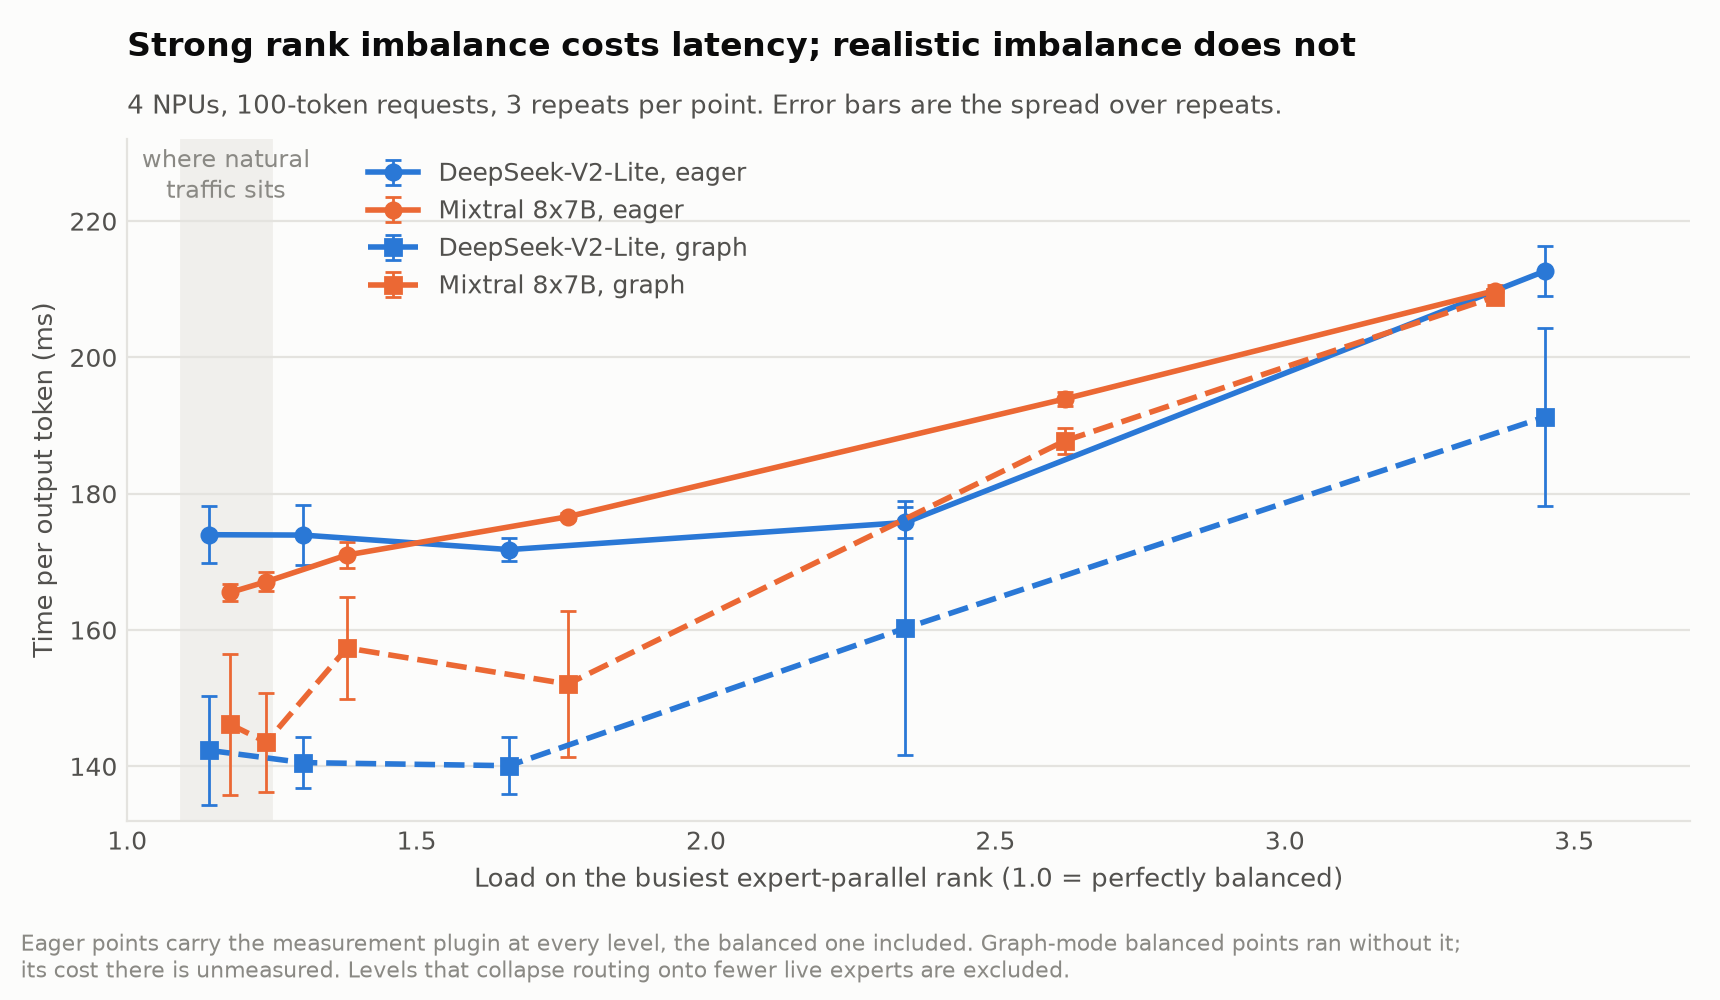
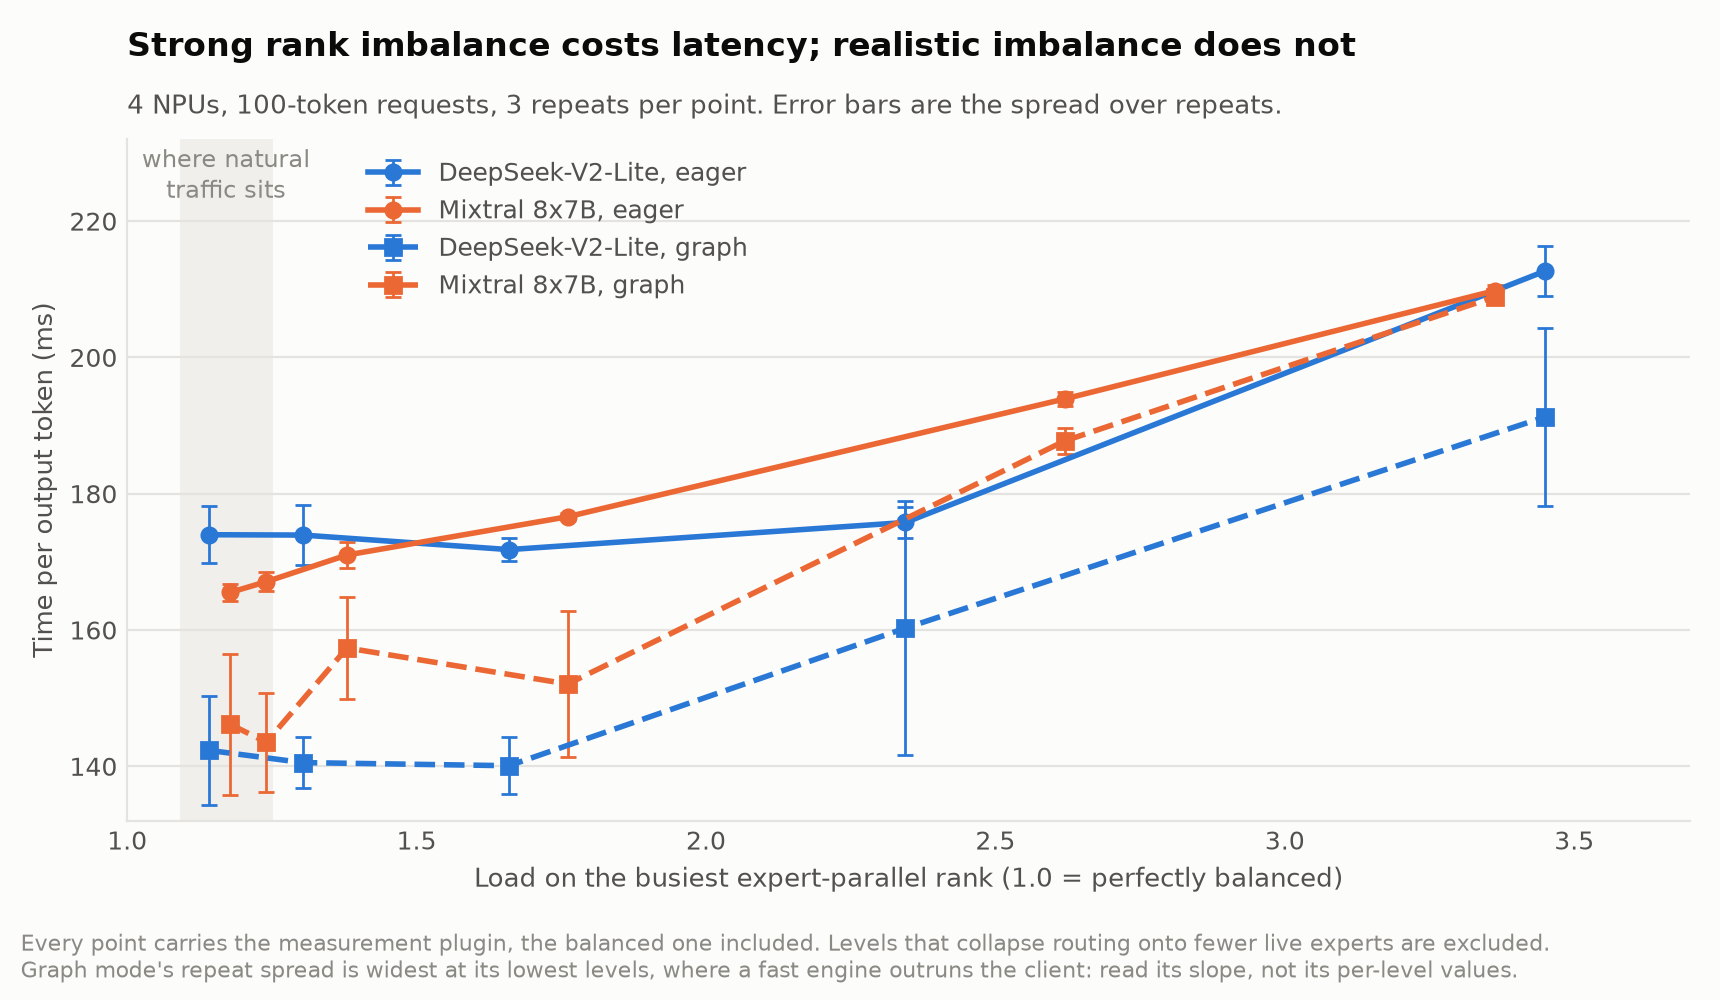
Correct the dose-response footnote and require completed captures
The graph curves are the controlled runs now, so every point carries the
plugin; the footnote still said the graph balanced points ran without it.
It also flags where graph mode's spread is widest, so the figure says to
read its slope rather than its per-level values.

detection_eval reads completed captures only: a run still in flight, or
one that failed partway, would contribute a few levels and silently
change what the rates are over.

Changed region(s): [[0.0, 0.93, 0.8936, 0.992]]

diff --git a/scripts/plot_findings.py b/scripts/plot_findings.py
@@ -185,9 +185,9 @@ def fig_dose_response(out, store):
     ax.set_xlim(1.0, 3.7)
     ax.set_ylim(132, 232)
     fig.text(0.012, 0.015,
-             "Eager points carry the measurement plugin at every level, the balanced one included. Graph-mode "
-             "balanced points ran without it;\nits cost there is unmeasured. Levels that collapse routing onto "
-             "fewer live experts are excluded.",
+             "Every point carries the measurement plugin, the balanced one included. Levels that collapse "
+             "routing onto fewer live experts are excluded.\nGraph mode's repeat spread is widest at its "
+             "lowest levels, where a fast engine outruns the client: read its slope, not its per-level values.",
              color=INK3, fontsize=8, va="bottom")
     fig.tight_layout(rect=(0, 0.075, 1, 1))
     fig.savefig(os.path.join(out, "dose_response.png"), dpi=200, facecolor=SURFACE)

diff --git a/scripts/detection_eval.py b/scripts/detection_eval.py
@@ -188,7 +188,9 @@ def capture_levels(model):
     spec = MODELS[model]
     out, labels = {}, None
     for d, m in manifests(CAPTURES[model]):
-        if os.path.basename(d).split("_")[2] != model or m.get("status") not in ("completed", "running"):
+        # Completed only: a run still in flight, or one that failed partway, would
+        # contribute a few levels and silently change what the rates are over.
+        if os.path.basename(d).split("_")[2] != model or m.get("status") != "completed":
             continue
         for p in m["points"]:
             f = json.load(gzip.open(os.path.join(d, p["validation_file"]))) if p.get("validation_file") else {}
